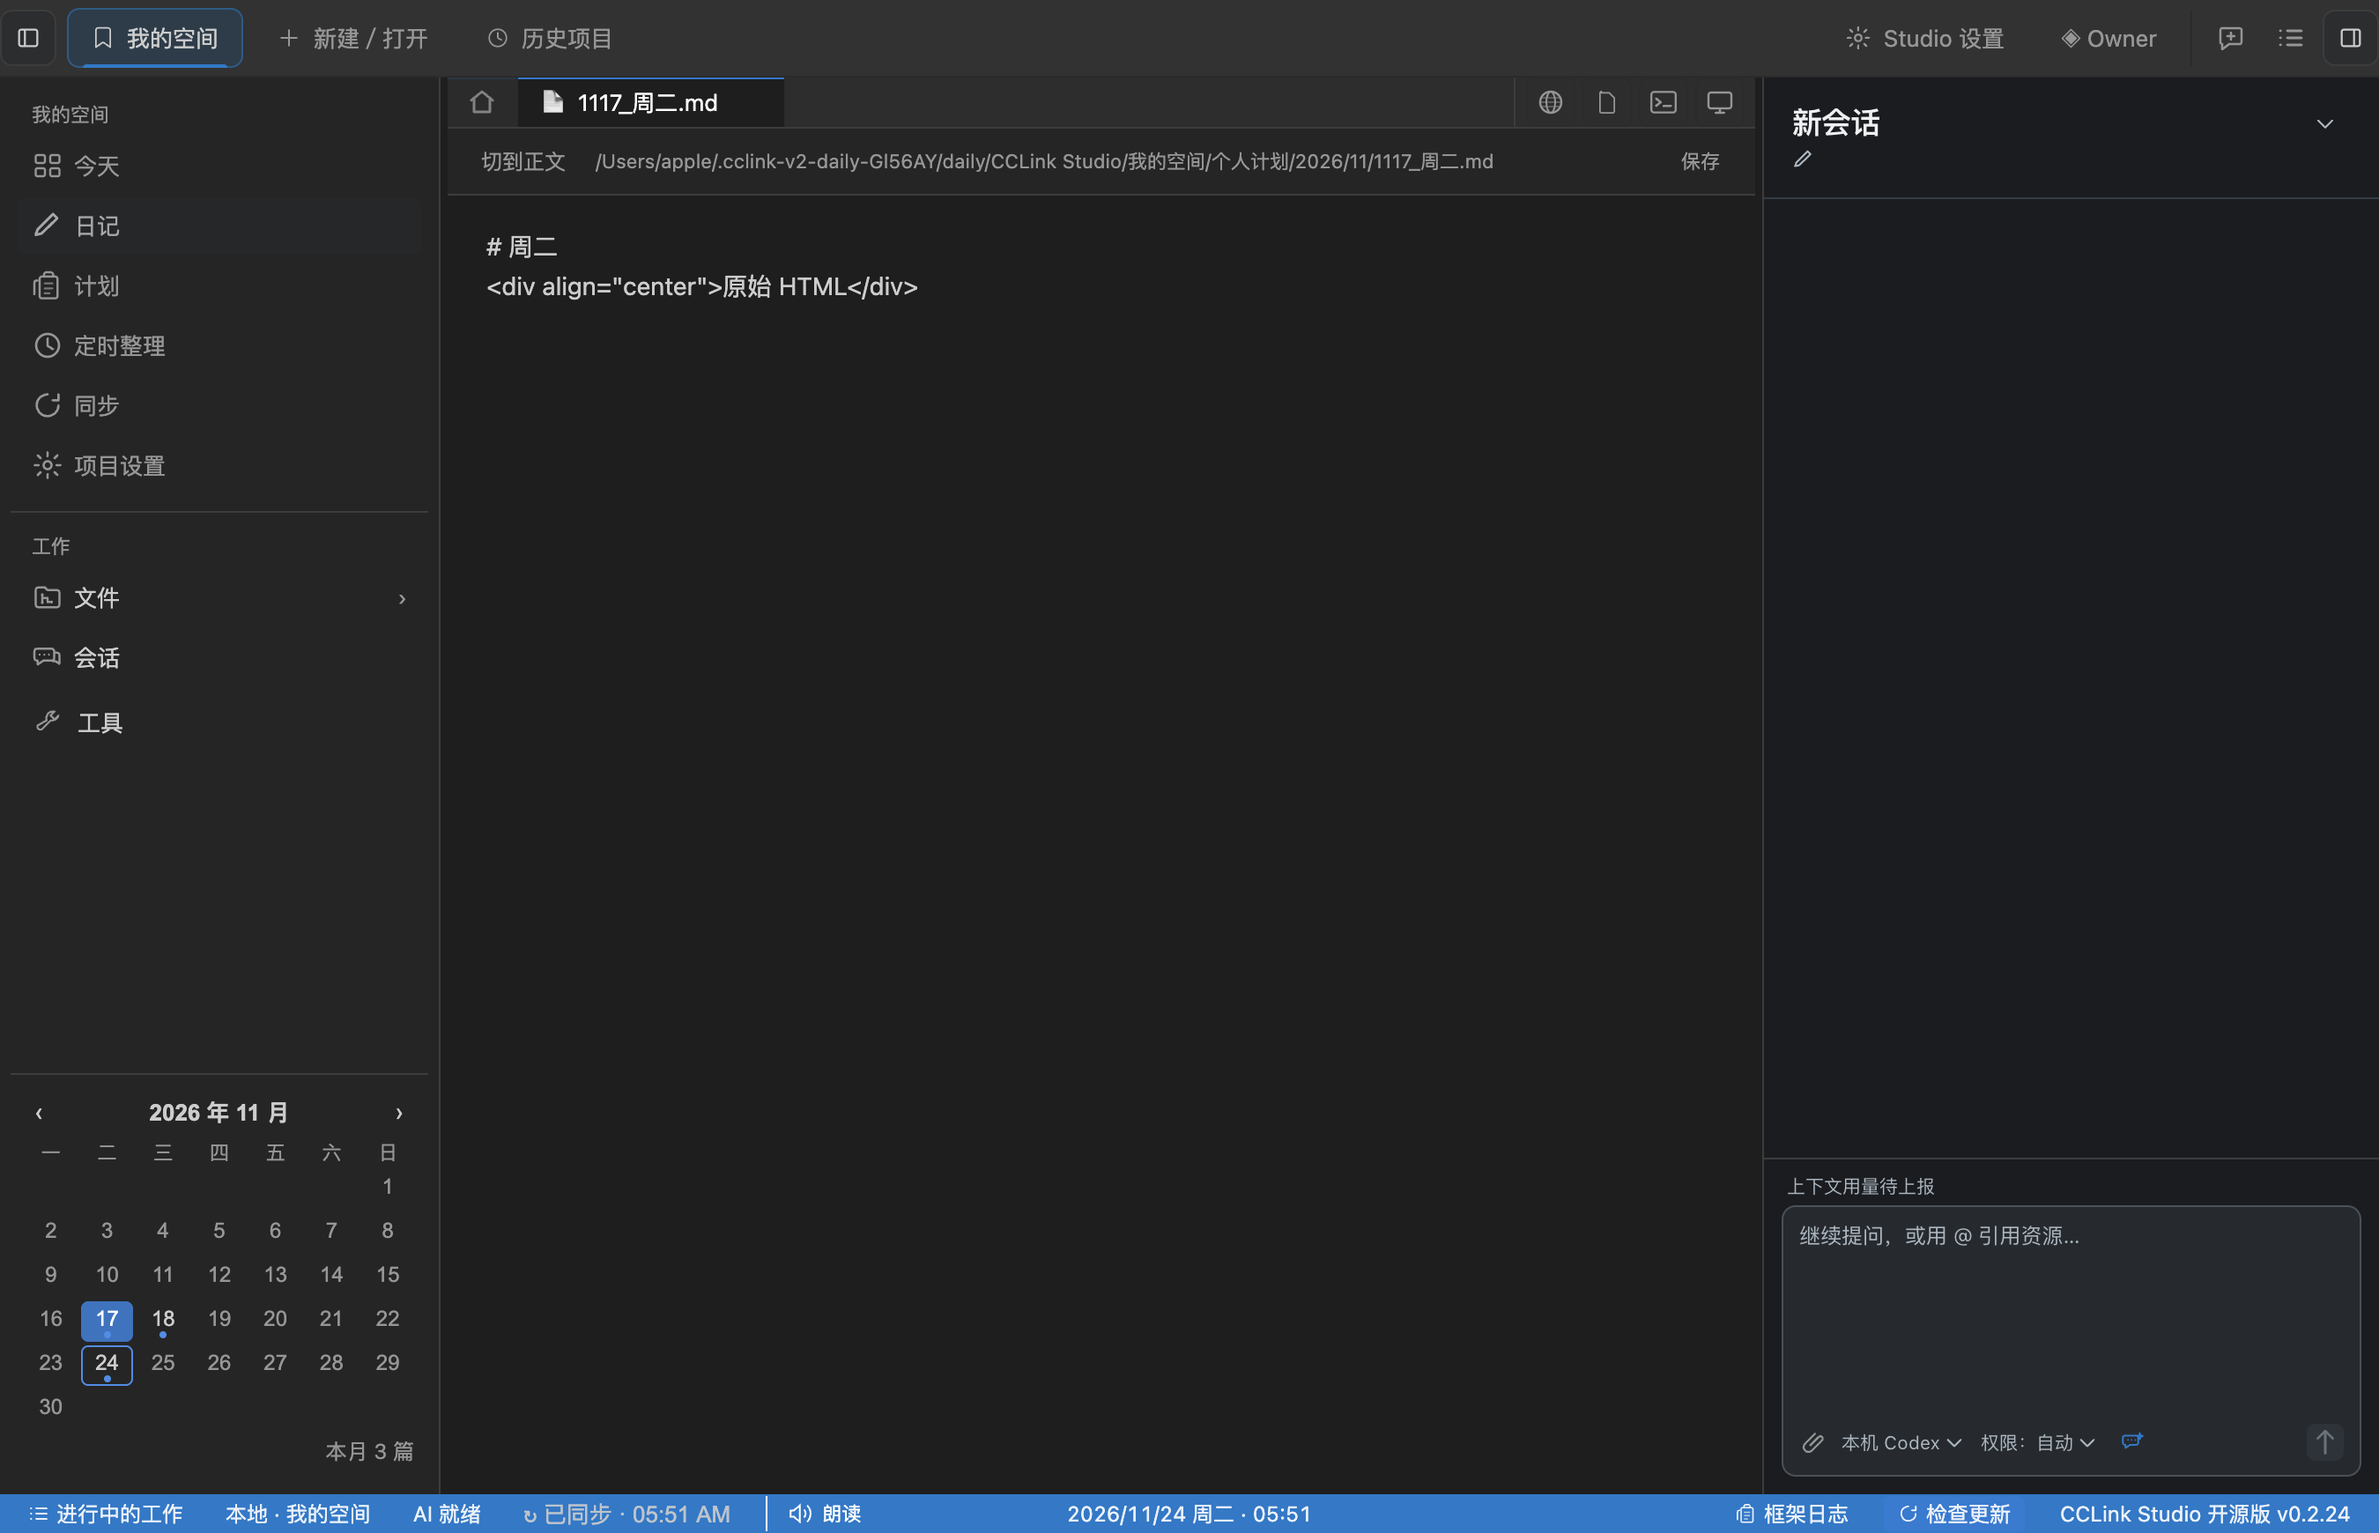
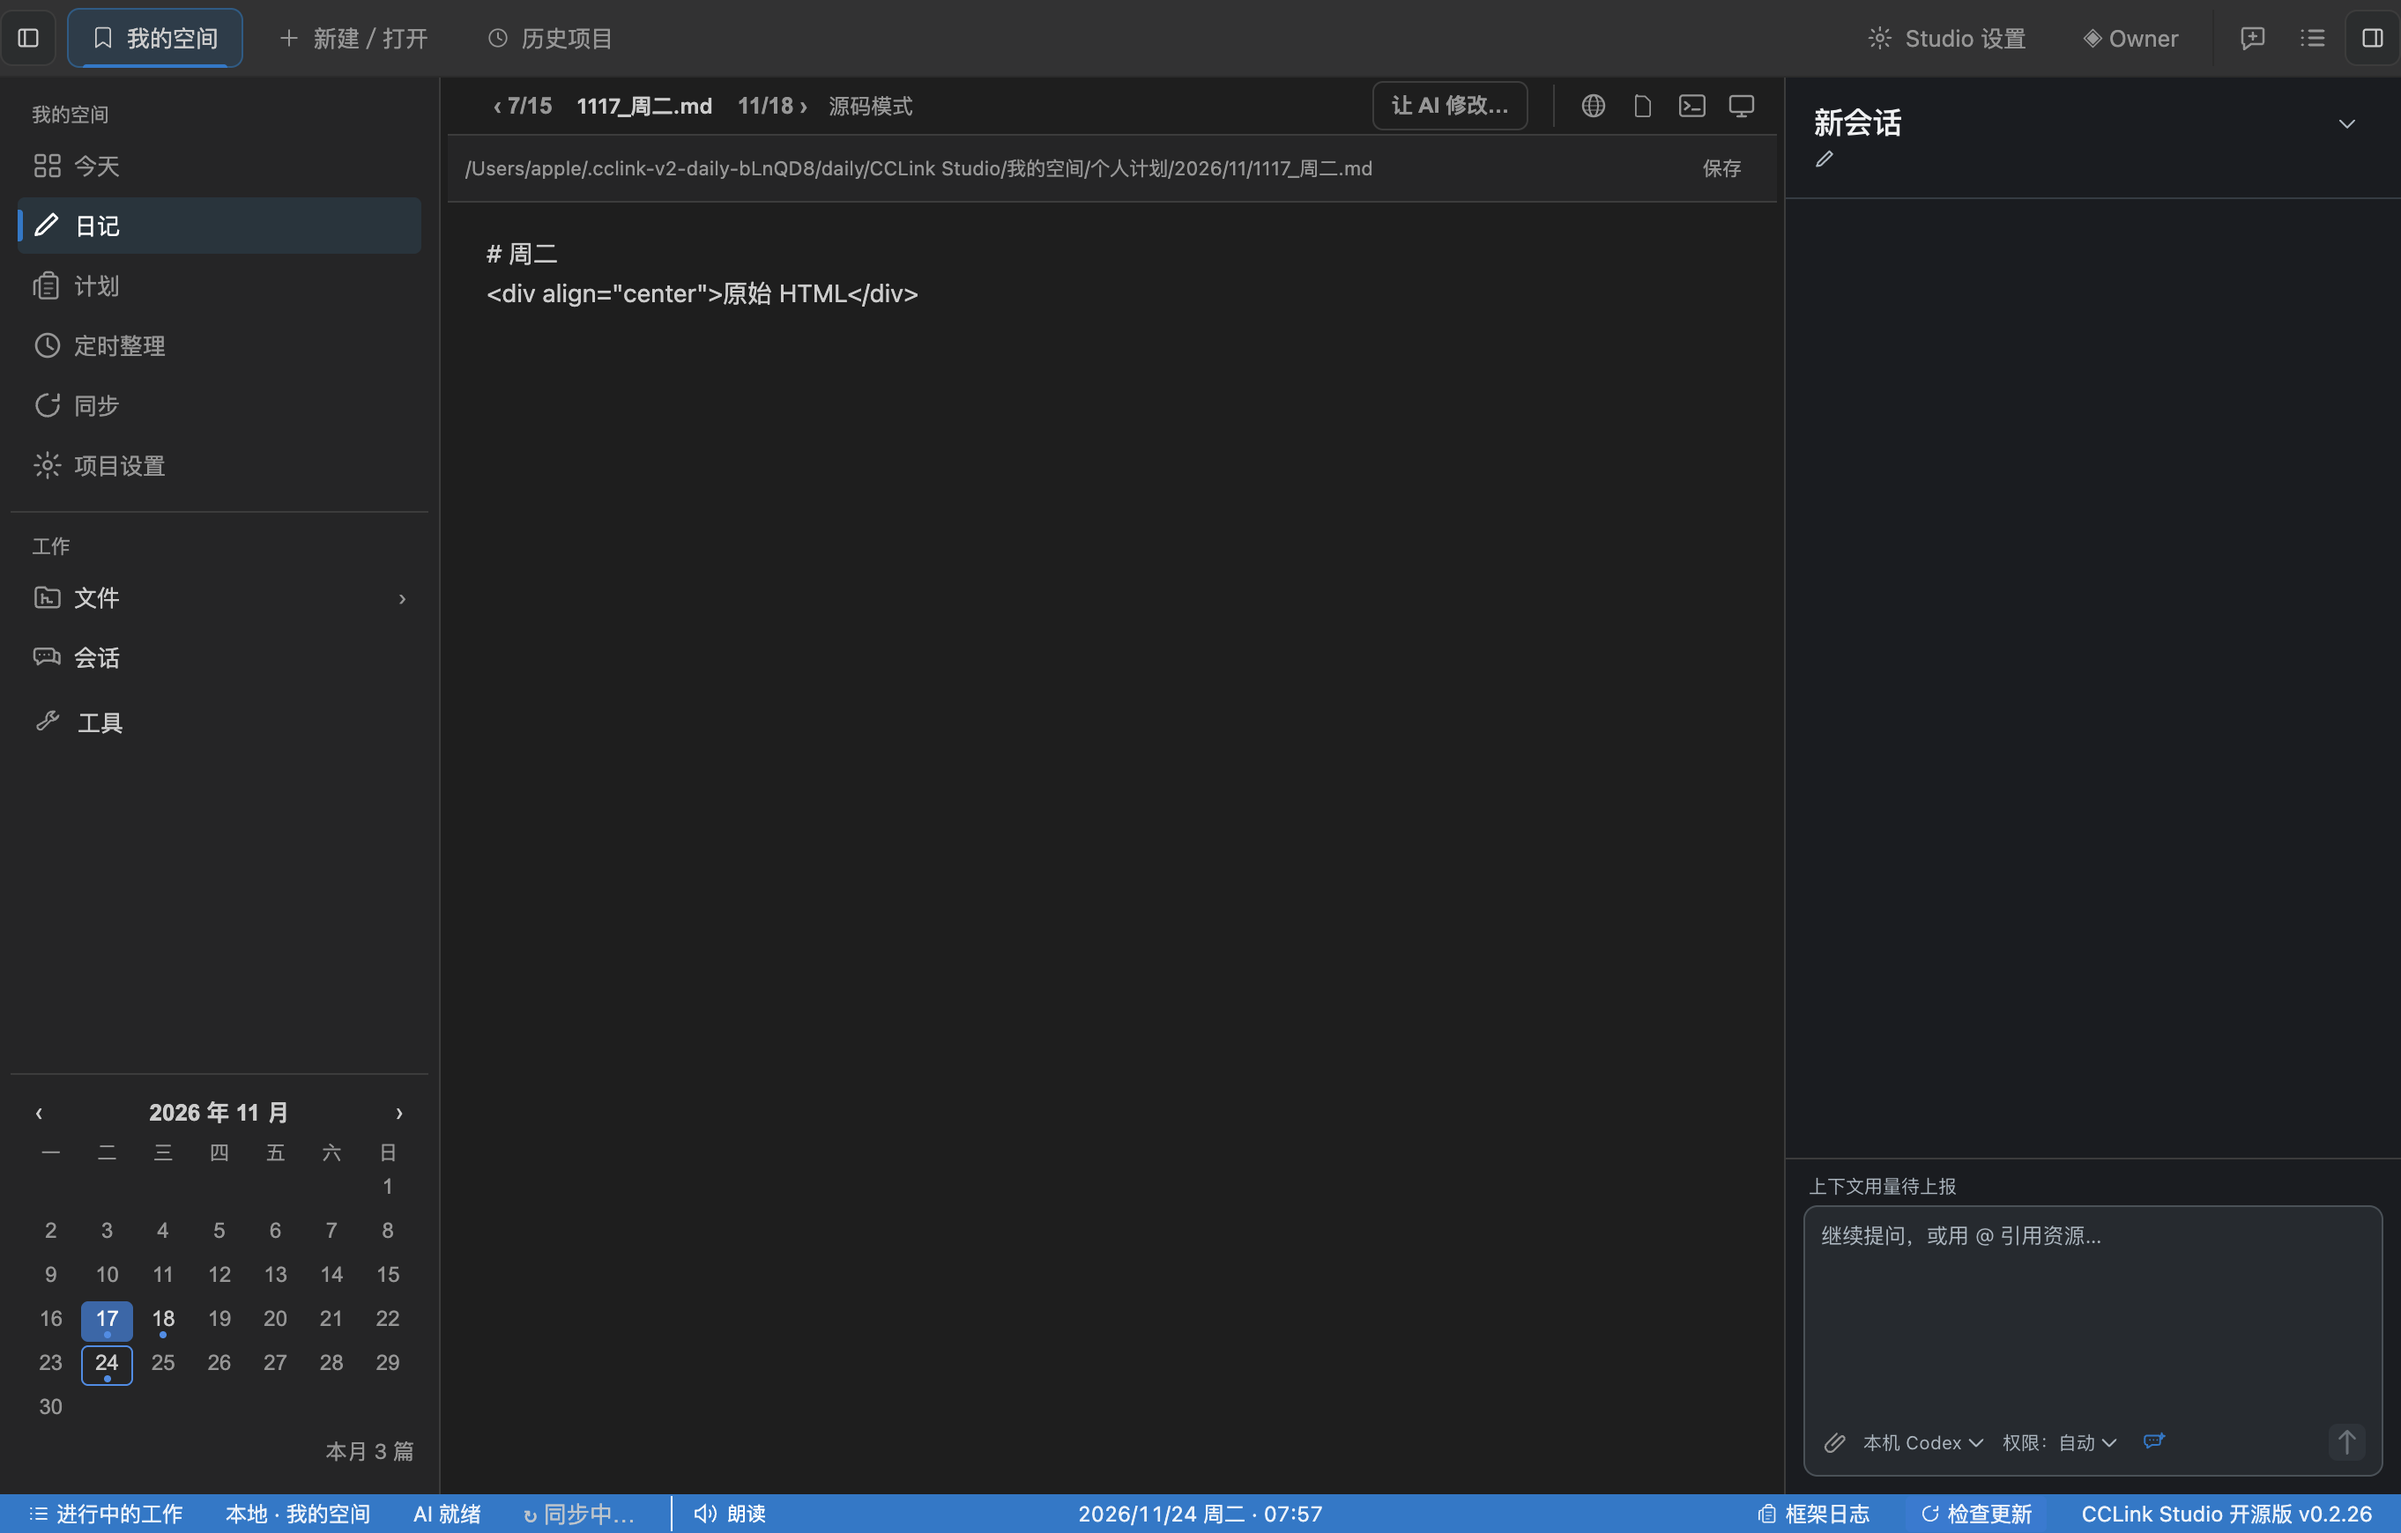
Stop the embedded source view from looping on 加载中 for diaries with raw HTML
The day view's source fallback reloaded the file, which put the rich editor back
into its loading state and unmounted the source view again. Embedded, it now
reuses the already-loaded file.

diff --git a/src/renderer/src/components/workbench/SourceTextEditor.tsx b/src/renderer/src/components/workbench/SourceTextEditor.tsx
@@ -24,6 +24,8 @@ import { resolveMountedEditorSaveTarget } from '../../features/editor-save-targe
 interface SourceTextEditorProps {
   filePath: string
   tabId: string
+  /** Use the file the embedding editor already loaded instead of reading it again. */
+  reuseLoaded?: boolean
 }
 
 function sourceSelectionRange(
@@ -58,7 +60,11 @@ function findSourceTextMatches(
   }))
 }
 
-export function SourceTextEditor({ filePath, tabId }: SourceTextEditorProps): React.ReactElement {
+export function SourceTextEditor({
+  filePath,
+  tabId,
+  reuseLoaded,
+}: SourceTextEditorProps): React.ReactElement {
   const fileState = useEditorStore((state) => state.files[filePath])
   const editorFontFamily = useSettingsStore((state) => state.settings.editorFontFamily)
   const editorFontSize = useSettingsStore((state) => state.settings.editorFontSize)
@@ -118,6 +124,10 @@ export function SourceTextEditor({ filePath, tabId }: SourceTextEditorProps): Re
 
   useEffect(() => {
     let disposed = false
+    // Embedded in a page whose rich editor already loaded this file: reloading would put that
+    // editor back into its loading state and unmount this one.
+    const loaded = useEditorStore.getState().files[filePath]
+    if (reuseLoaded && loaded && !loaded.loading) return
     void useEditorStore
       .getState()
       .openFile(filePath)
@@ -127,7 +137,7 @@ export function SourceTextEditor({ filePath, tabId }: SourceTextEditorProps): Re
     return () => {
       disposed = true
     }
-  }, [filePath])
+  }, [filePath, reuseLoaded])
 
   useEffect(() => {
     const directory = filePath.slice(0, filePath.lastIndexOf('/')) || '/'

diff --git a/src/renderer/src/components/workbench/MarkdownEditor.tsx b/src/renderer/src/components/workbench/MarkdownEditor.tsx
@@ -1081,7 +1081,7 @@ export function MarkdownEditor({
             {toolbarExtra}
           </div>
         ) : null}
-        <SourceTextEditor filePath={filePath} tabId={tabId} />
+        <SourceTextEditor filePath={filePath} tabId={tabId} reuseLoaded />
       </div>
     )
   }
